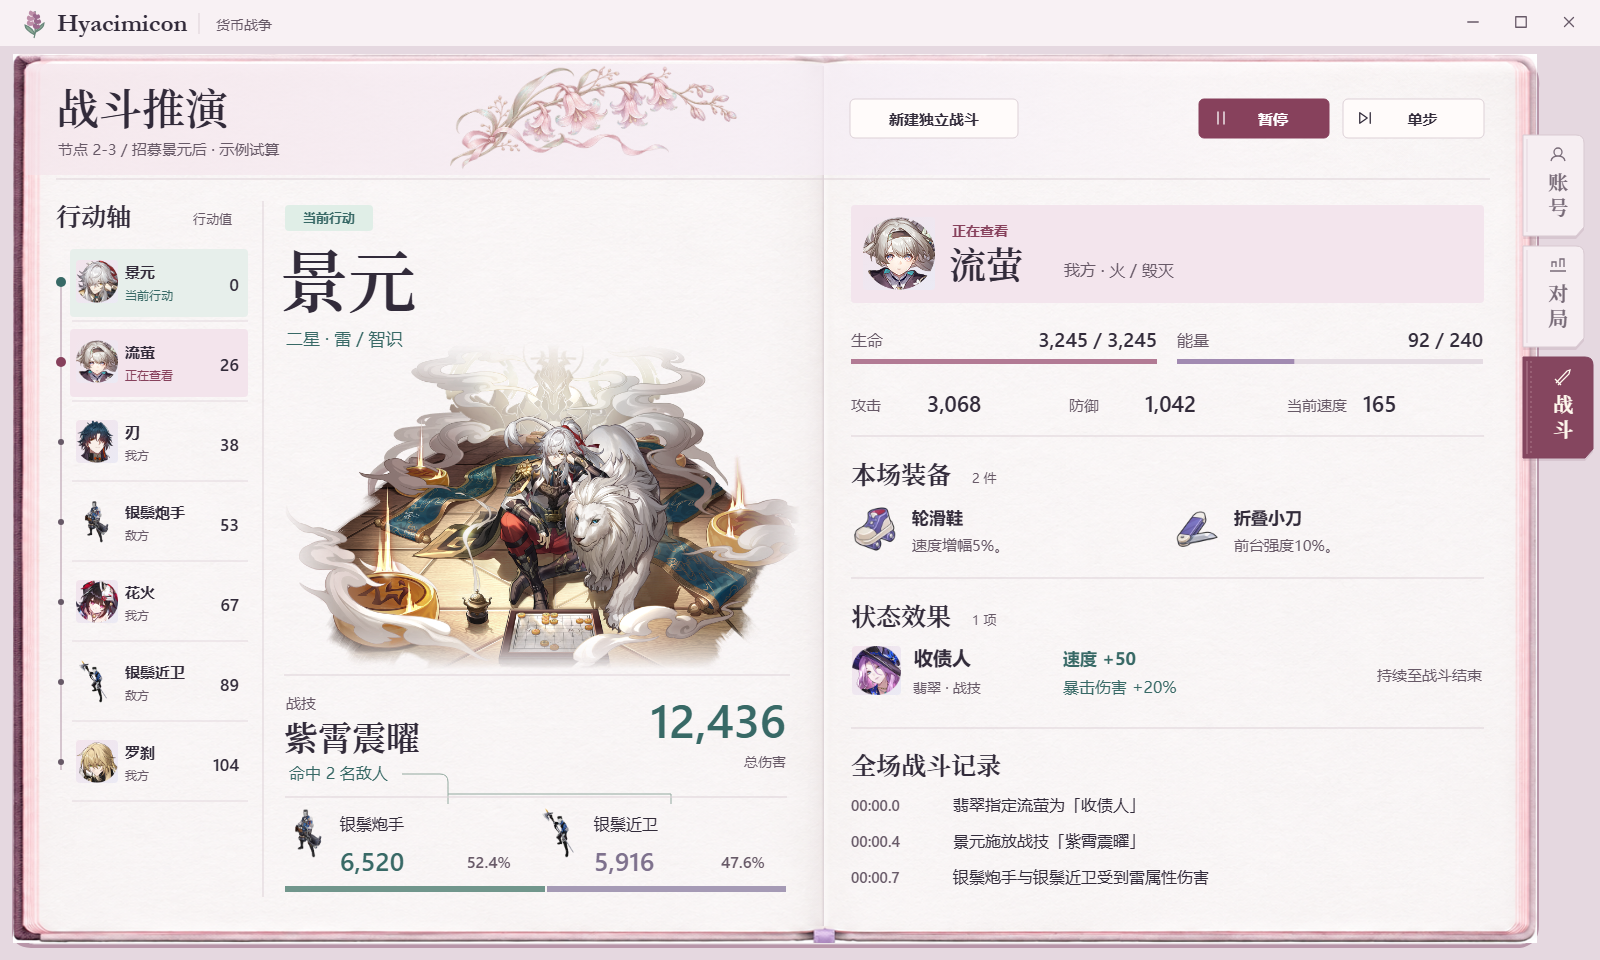
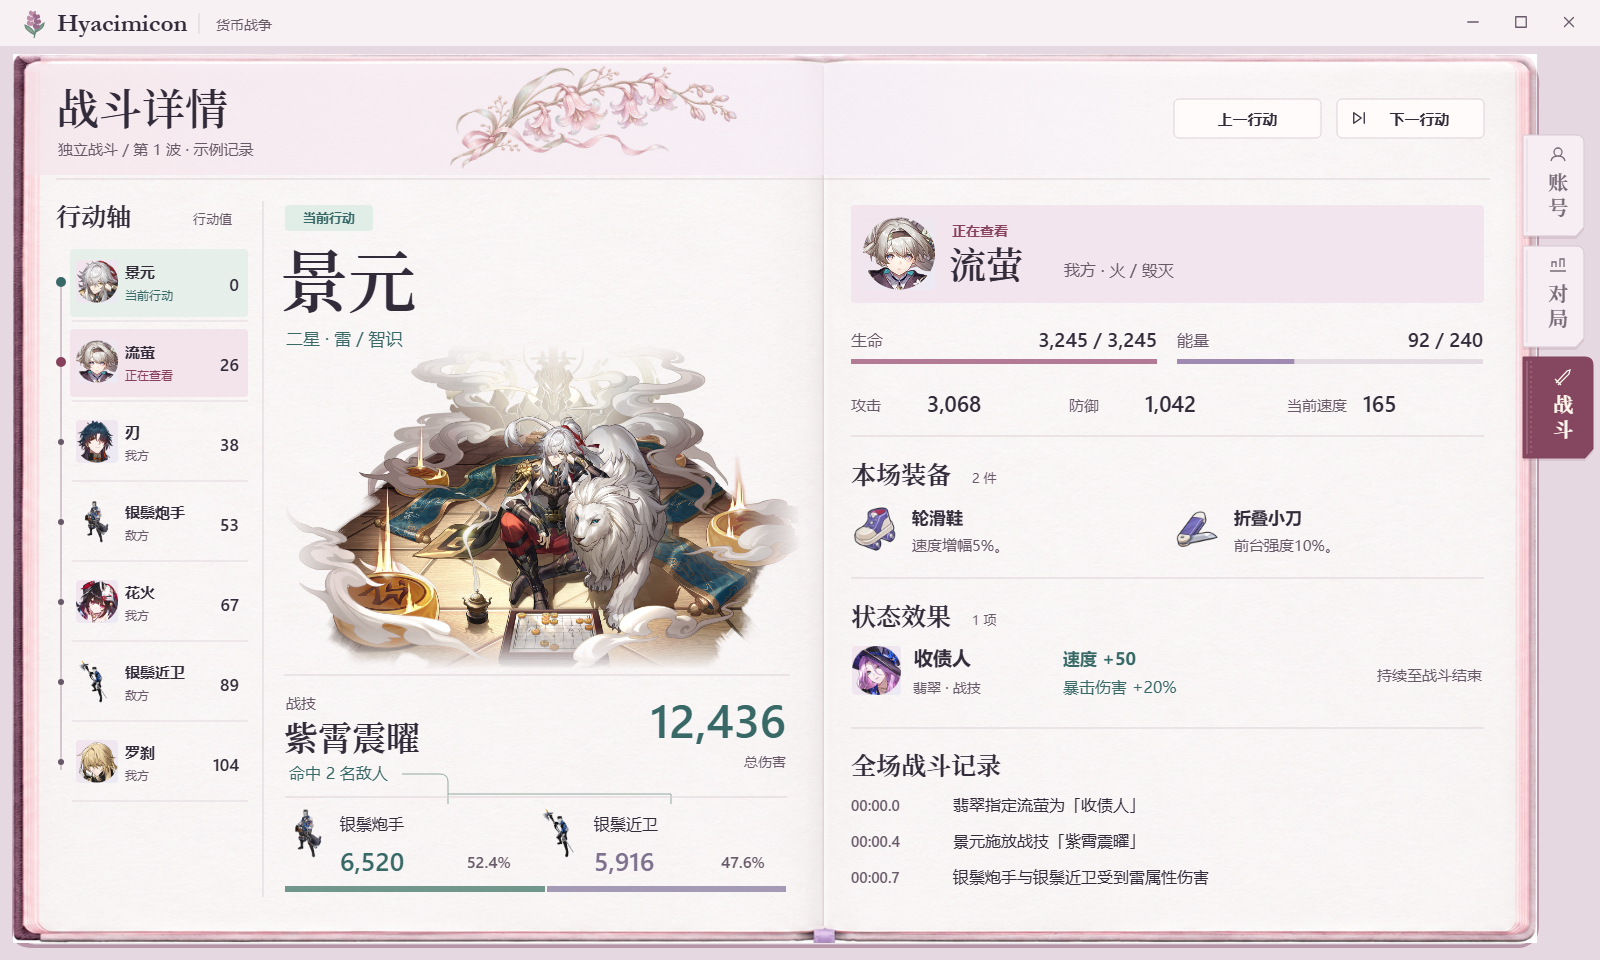
docs(player-app): separate combat records from strategy advice and bundle artwork

diff --git a/design-drafts/player-app/README.md b/design-drafts/player-app/README.md
@@ -7,13 +7,15 @@
 | 界面 | 玩家要解决的问题 | 布局重点 |
 | --- | --- | --- |
 | [账号](account.png) | 我的角色和装备能支持哪些方案？ | 统一入口支持文件导入和随机生成，可切换、管理账号并查看来源。左页检索角色，右页查看养成和装备。行迹按角色实际技能生成，可随条目数量换行。 |
-| [对局](match.png) | 这一步买牌、刷新还是攒钱？ | 阵容与候选同屏，显示建议理由、成本与预期变化。前台 4 格、后台预留 6–9 格、备战席 9 格。商店五张报价收在一行；已穿装备随头像显示，详情贴着角色展开，库存和消耗品单列。 |
-| [战斗](battle.png) | 换了方案后，谁先行动，属性与战果如何变化？ | 支持独立进入，也可从候选方案进入。保留常规线性行动轴，区分当前行动者与正在查看的单位，展示实时属性、装备、状态来源及持续时间。 |
+| [对局](match.png) | 这一步买牌、刷新还是攒钱？ | 运营策略依据账号资源和当前可见局面提出建议，规则解释购买成本、升星和席位变化。前台 4 格、后台预留 6–9 格、备战席 9 格。商店五个报价同屏，装备浮窗贴着角色。 |
+| [战斗](battle.png) | 这次是谁行动、命中了谁？被查看的单位有哪些增益？ | 战斗独立打开。沿线性行动轴查看单位在对应时刻的属性、装备与状态，按实际发生的行动阅读战斗记录。 |
 
 ## 用一个局面串起三个页面
 
-静态示例中，前台和备战席各有一名一星景元，商店还有一名。右页并列招募、攒钱和刷新的后果。买入景元消耗 1 金币，余额从 37 到 36，合成二星后备战席从 4 人减至 3 人。玩家可先查看该候选的战斗试算，再回游戏自行操作。
+静态示例中，前台和备战席各有一名一星景元，商店还有一名。右页并列招募、攒钱和刷新的后果。买入景元消耗 1 金币，余额从 37 到 36，合成二星后备战席从 4 人减至 3 人。上阵人数和羁绊人数保持原值。运营神经网络独立于战斗模拟；玩家看完建议后在游戏中自行选择并执行。
 
 [实战回填](feedback.png)是对局页的一种状态。玩家填写实际操作，核对余额、星级和席位后保存，工具再按更新后的局面评估。图中的建议、伤害和回填值均为设计样例。
 
 三页沿用低饱和的风堇配色、书脊分栏和侧边书签，彩色立绘两侧淡入纸面。窗口保留应用图标、名称及标准窗口控制。参考图尺寸为 1600 × 960。
+
+前端可直接使用同目录的[原型素材](assets/README.md)。

diff --git a/design-drafts/player-app/assets/README.md b/design-drafts/player-app/assets/README.md
@@ -1,0 +1,12 @@
+# 窗口原型素材
+
+按当前参考图的实际引用整理。游戏美术归《崩坏：星穹铁道》相应权利人所有。文件名保留角色或物品 ID，便于和项目的数据条目关联。
+
+| 目录 | 用途与来源 |
+| --- | --- |
+| [portraits](portraits/) | 风堇（1409）、景元（1204）两张彩色立绘，来自社区整理的 [StarRailRes](https://github.com/Mar-7th/StarRailRes)。原图保留透明背景，界面另加渐隐。 |
+| [avatars](avatars/) | 17 张角色头像。草稿使用的 StarRailRes 头像副本按 `head-角色ID.png` 命名。 |
+| [light-cones](light-cones/) 与 [relics](relics/) | 账号页展示的光锥与六件遗器，取自本轮图稿使用的游戏美术 PNG。 |
+| [items](items/)、[traits](traits/)、[enemies](enemies/) | 局内装备和消耗品、羁绊与敌人。原文件来自同级数据仓库 `hsr-currency-wars-data/assets/encyclopedia/` 下的对应目录。 |
+| [book](book/) | 草稿书页与装订背景 `binding.png`、页首花饰 `letterpress.png`。 |
+| [ui](ui/) | 从草稿矢量绘图中导出的应用标识、模块书签和控件图标。单色 SVG 使用 `currentColor` 便于随界面换色。 |
